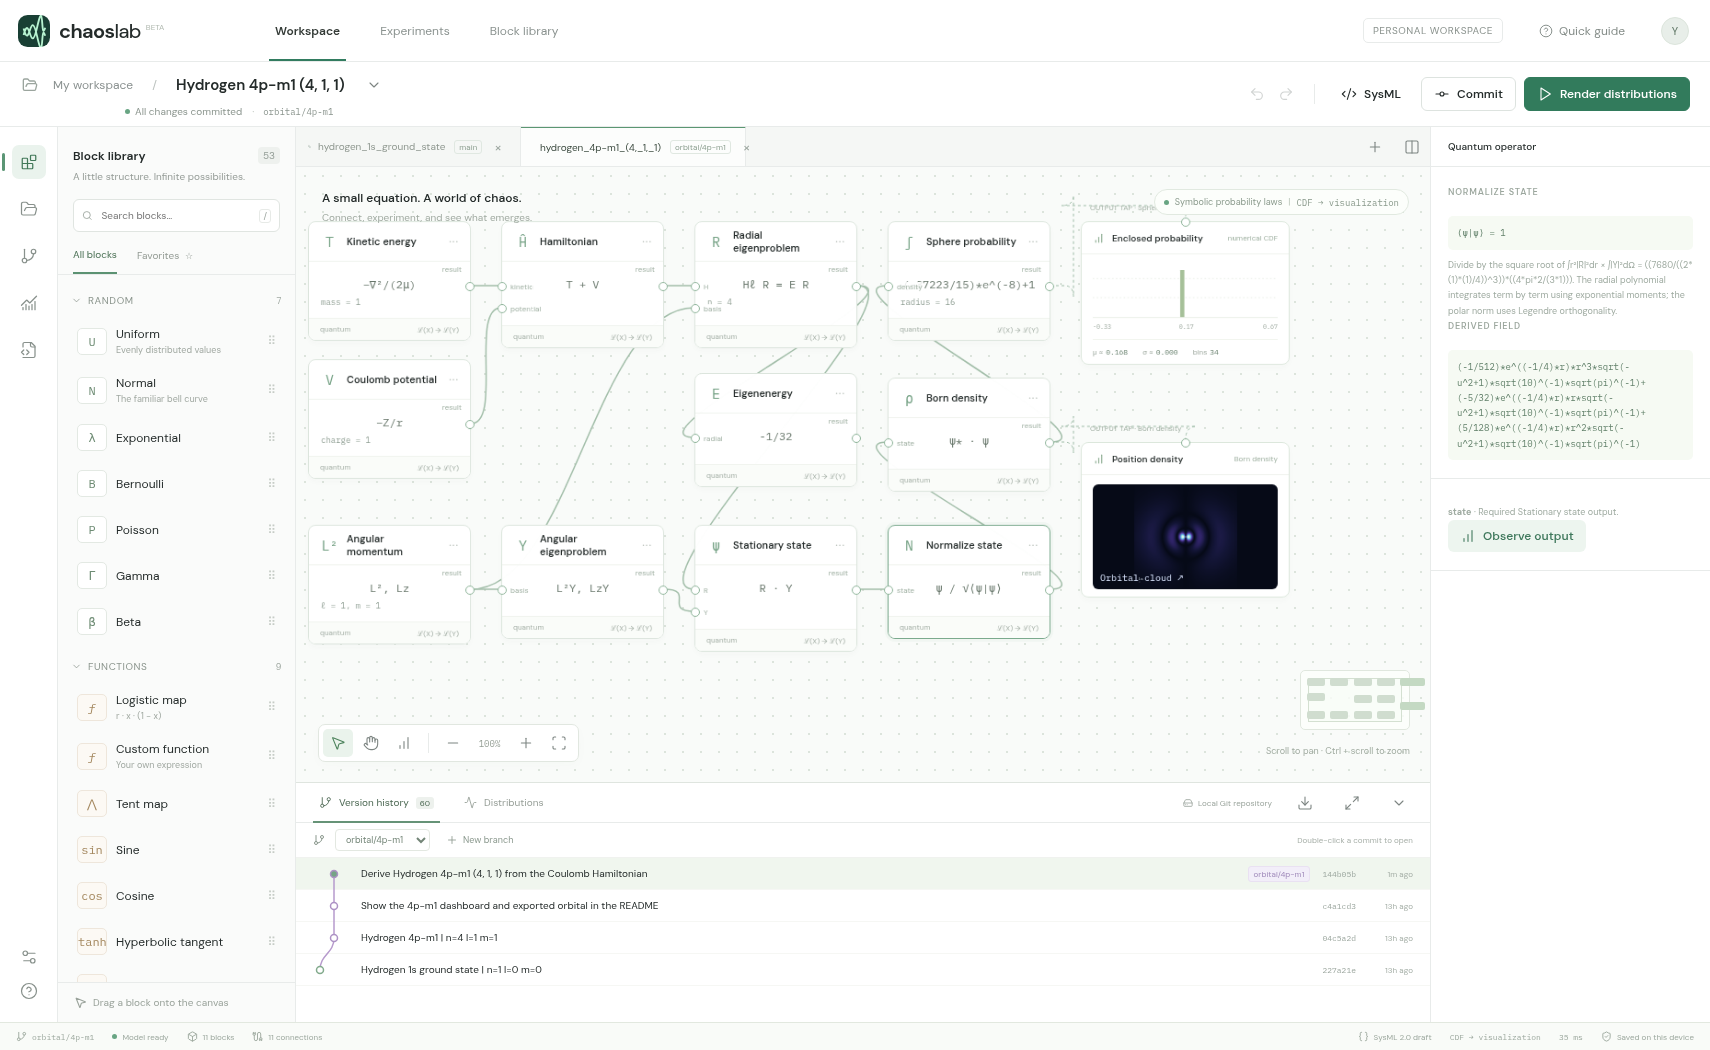
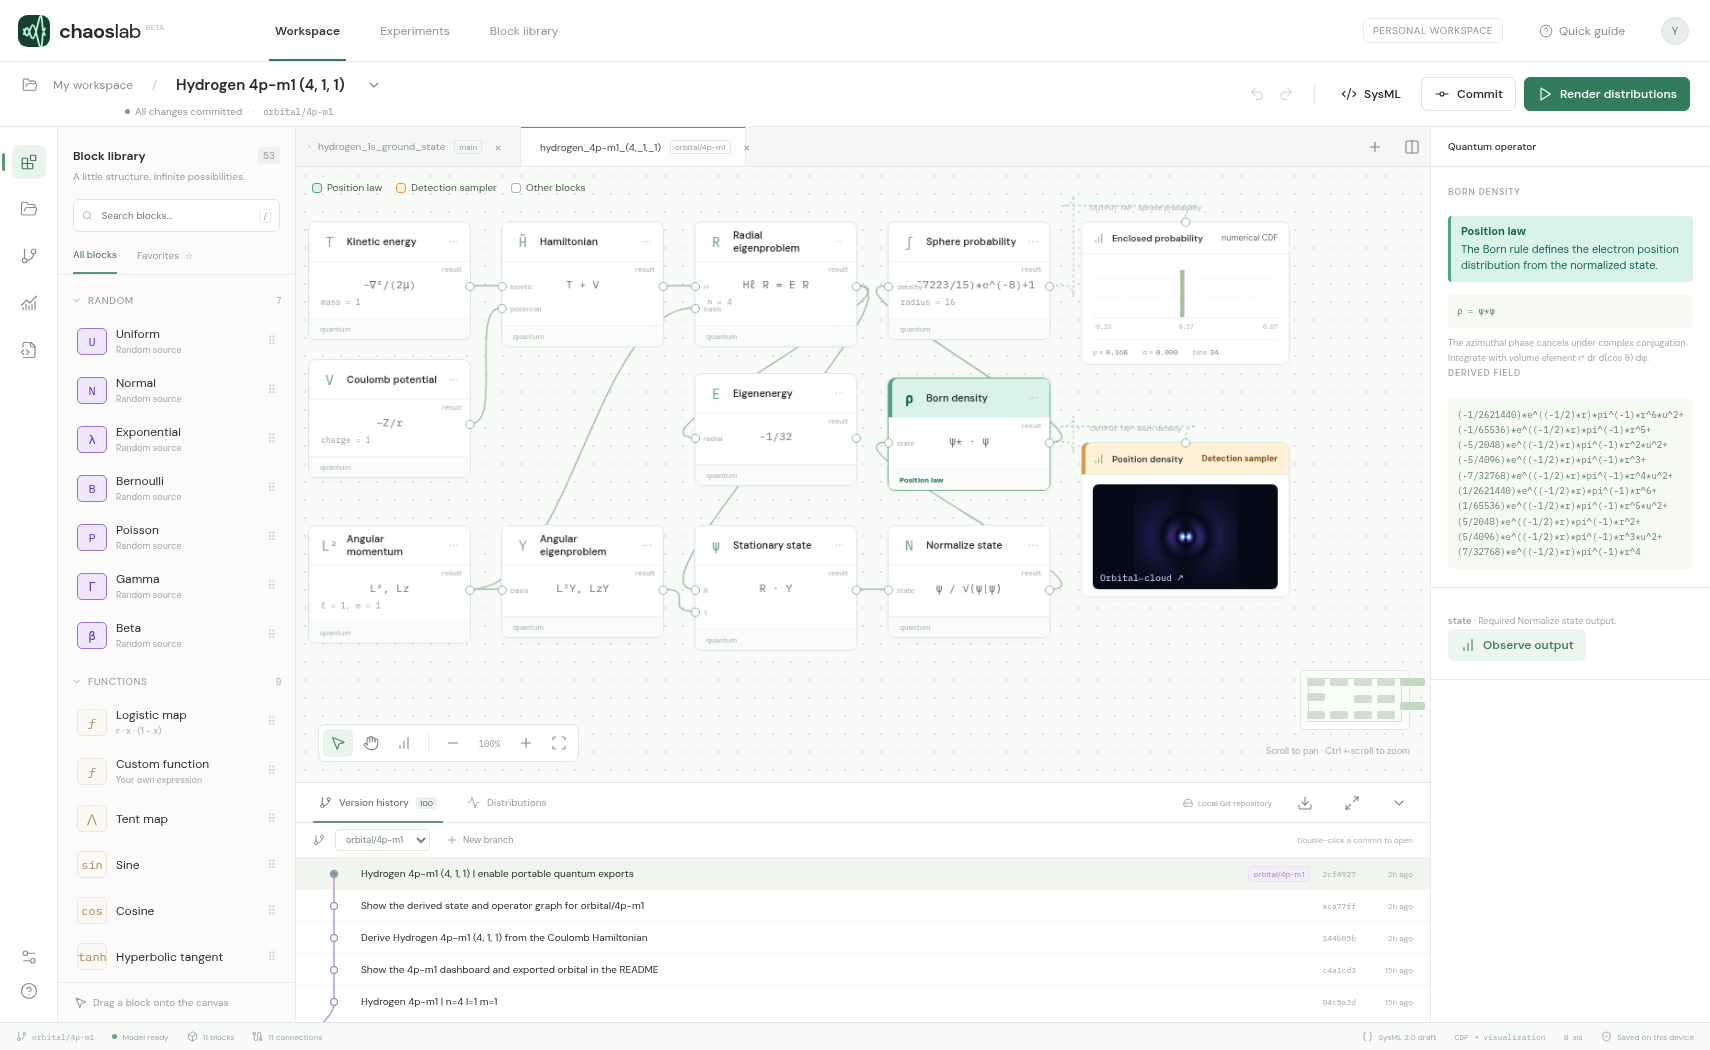
Hydrogen 4p-m1 (4, 1, 1) | identify the position law and detection sampler

diff --git a/studio.py b/studio.py
@@ -10,7 +10,7 @@ import tempfile
 import webbrowser
 
 ROOT = Path(__file__).resolve().parent
-STUDIO_REV = "1cc30c5632f1fe1f79a11ab6730f82c36a6c01e4"
+STUDIO_REV = "8657d6ecd3aa33a5a28f43219d5d6bfb8aa3edcc"
 STUDIO_REPO = "https://github.com/wa200508/chaos_lab.git"
 
 

diff --git a/README.md b/README.md
@@ -6,6 +6,8 @@ Open **Version history** in Chaos Lab to explore the 20 hydrogen designs in this
 
 The connected Hamiltonian and eigenstate solvers give $E=-1/32$ Hartree for this state.
 
+On the canvas, teal **Position law** marks where the Born rule defines the distribution of electron positions. Amber **Detection sampler** marks the tap that draws positions for the projected cloud. The central slice evaluates the density directly.
+
 ![Chaos Lab dashboard with the 4p model, m = 1, open in version history](dashboard.png)
 
 Radial nodes: 2. Polar nodes: 0. Plot half-width: 32 Bohr radii.
